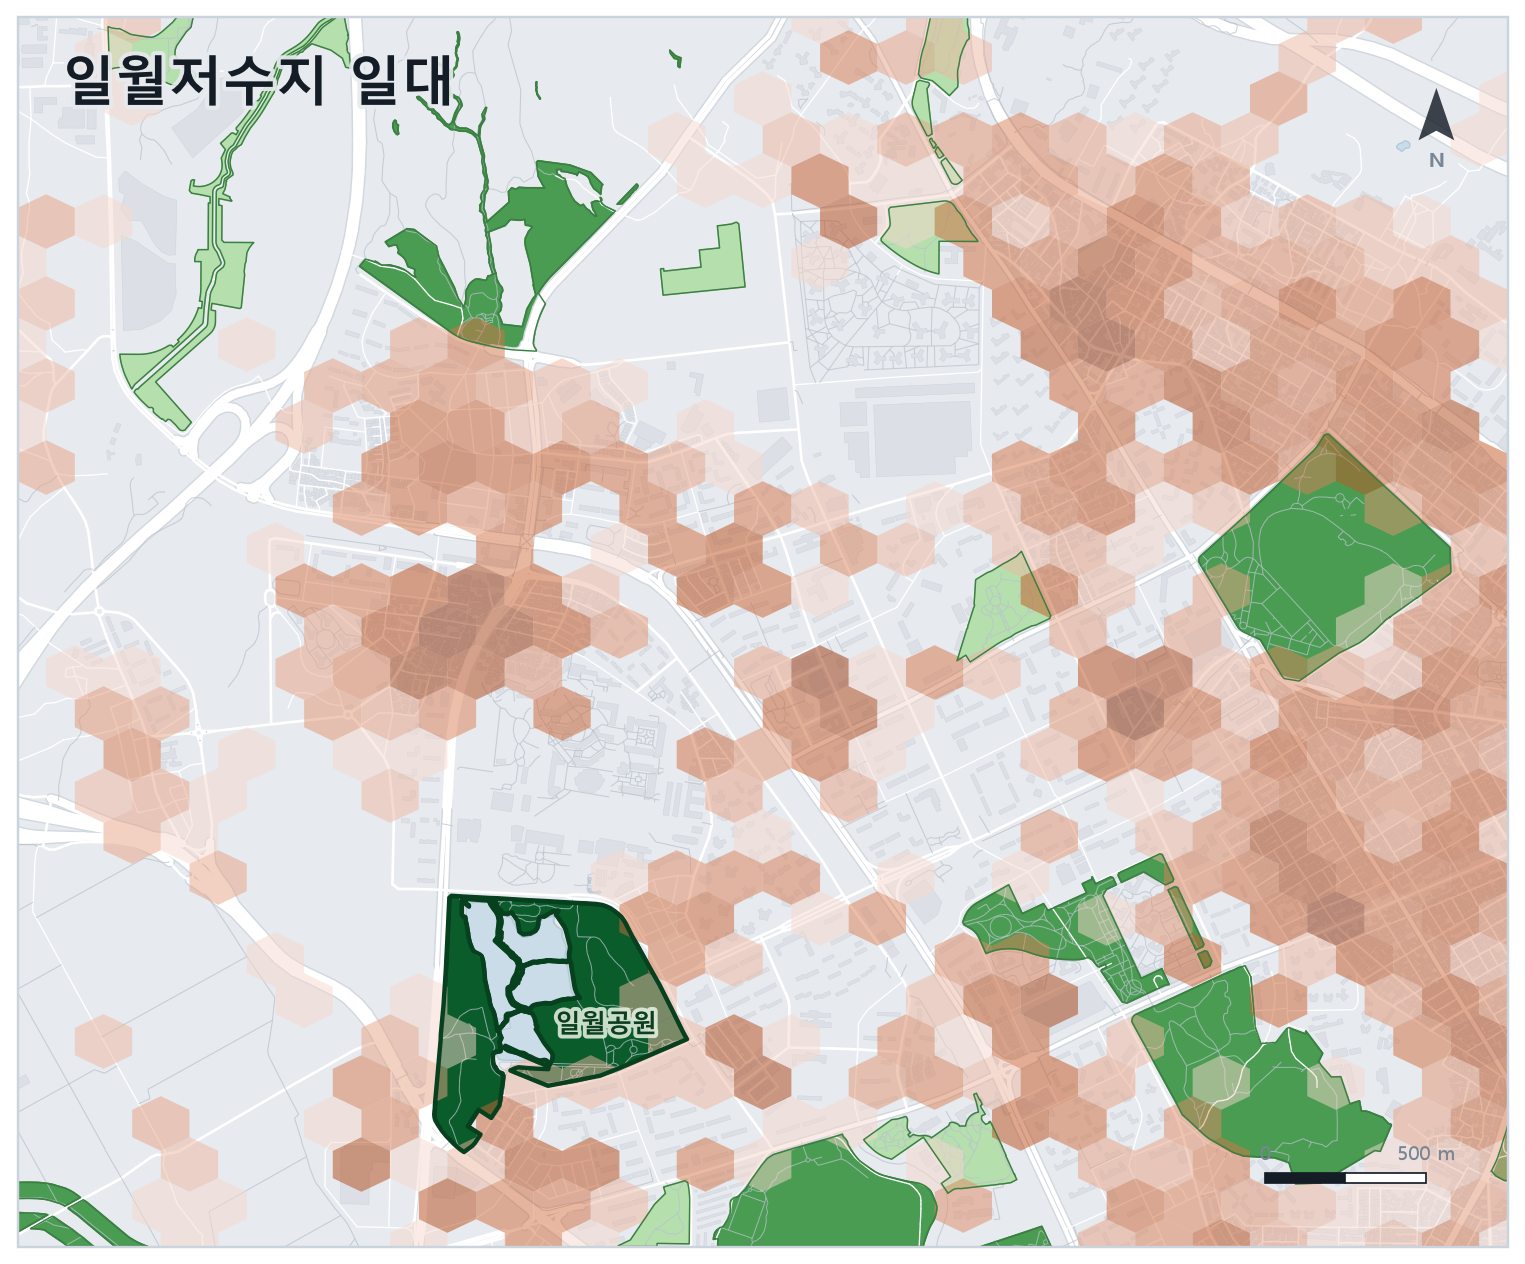
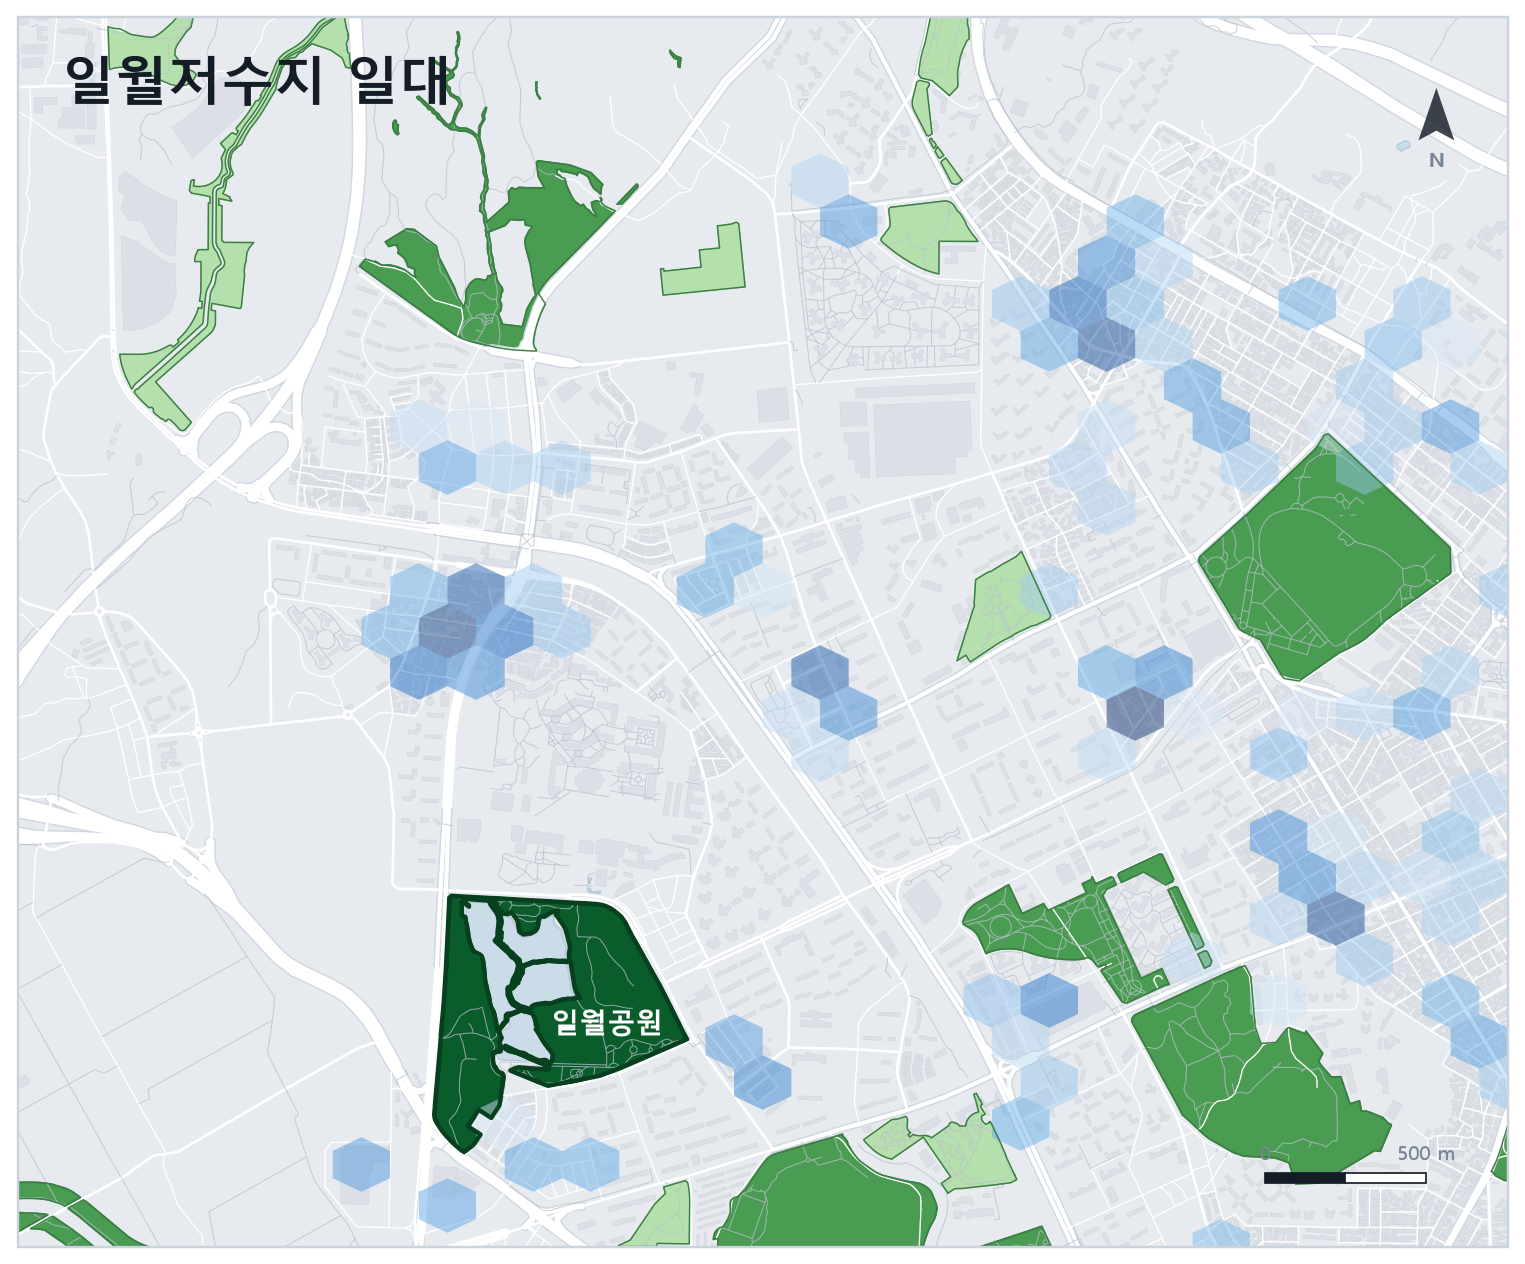
공원 자본화 보고서 지도 정리 — 두 종류로 줄이고 조판을 다듬었다
- 공원만 있는 도판을 없애고, 단지가 포함된 도판을 기본 지도로 삼아 상단에 둔다.
  같은 갤러리가 00절에 중복으로 있던 것도 제거했다.
- 분석 단지를 흰 테두리 작은 사각점으로 바꿨다.
- 지도 안 글자에서 후광·상자를 걷어내고 단색으로 두었다. 대표공원 이름은
  진한 초록 위 흰색, 구역 이름은 밝은 지면 위 먹색이라 대비만으로 읽힌다.
- 상권 육각형을 파란 계열로 바꾸고 로그 계급에 투명도 0.45를 주었다.
  칸의 문턱은 구역마다 '비어 있지 않은 칸의 78분위'로 잡는다. 고정 문턱을
  쓰면 상권이 넓게 깔린 광교에서 화면 대부분이 칠해져 강도 차이가 사라진다.

diff --git a/components/reports/park-capitalization.tsx b/components/reports/park-capitalization.tsx
@@ -1,7 +1,6 @@
 import { MapLightbox } from "@/components/reports/map-lightbox"
 import {
   parkCapCoreMaps,
-  parkCapParkMaps,
   parkCapHexMaps,
   parkCapConclusion,
   parkCapVerdict,
@@ -199,18 +198,19 @@ export function ParkCapitalizationReport() {
         ))}
       </dl>
 
-      {/* 지도 — 공원만 */}
+      {/* 지도 — 다섯 구역의 대표공원과 분석 단지 */}
       <div className="mt-10">
         <p className="font-mono text-[0.62rem] uppercase tracking-[0.12em] text-muted-foreground">
-          다섯 구역의 공원 배치
+          다섯 구역의 대표공원과 분석 단지
         </p>
         <p className="mt-2 max-w-3xl text-[0.9rem] leading-relaxed text-muted-foreground">
-          가장 진한 초록이 각 구역의 대표공원이고, 옅은 초록은 2ha 이상의 다른 공원이다. 단지를
-          걷어내고 공원만 두면 이 연구의 질문이 그대로 보인다 — 동탄2 남부는 대표공원이 시가지
-          한복판에 앉아 있고, 북부의 여울공원은 하천을 따라 가늘게 뻗어 동탄1과의 접경을 스친다.
-          광교는 공원이 지구를 통째로 갈라놓고, 일월은 촘촘한 기성시가지 속에 섬처럼 놓여 있다.
+          가장 진한 초록이 각 구역의 대표공원, 옅은 초록이 2ha 이상의 다른 공원, 작은 사각점이
+          분석 단지다. 동탄2 남부는 대표공원이 시가지 한복판에 앉아 단지들이 그 둘레에 퍼져 있다.
+          북부의 여울공원은 하천을 따라 가늘게 뻗어 동탄1과의 접경을 스친다. 광교는 공원이 지구를
+          통째로 갈라놓아 지구 안 단지는 어디든 가깝고, 일월은 촘촘한 기성시가지 속에 공원 하나가
+          섬처럼 놓여 있다.
         </p>
-        <MapLightbox maps={parkCapParkMaps} />
+        <MapLightbox maps={parkCapCoreMaps} />
       </div>
 
       {/* 00 한눈에 보기 */}
@@ -230,20 +230,6 @@ export function ParkCapitalizationReport() {
           </div>
         ))}
       </div>
-      {/* 지도 — 다섯 구역 */}
-      <div className="mt-8">
-        <p className="font-mono text-[0.62rem] uppercase tracking-[0.12em] text-muted-foreground">
-          다섯 구역의 대표공원
-        </p>
-        <p className="mt-2 max-w-3xl text-[0.9rem] leading-relaxed text-muted-foreground">
-          가장 진한 초록이 각 구역의 대표공원, 점이 분석 단지다. 동탄2 남부는 대표공원이 시가지
-          한복판에 앉아 단지들이 그 둘레에 퍼져 있다. 북부의 여울공원은 하천을 따라 가늘게 뻗어
-          지구 가장자리를 스친다. 광교는 공원이 지구를 통째로 갈라놓아 어느 단지든 가깝고, 일월은
-          촘촘한 기성시가지 속에 공원 하나가 섬처럼 놓여 있다.
-        </p>
-        <MapLightbox maps={parkCapCoreMaps} />
-      </div>
-
       <Table spec={parkCapHeadlineTable} />
 
       <div className="mt-5 rounded border border-border border-l-[3px] border-l-accent bg-muted/40 px-4 py-3.5 text-[0.88rem] leading-relaxed">
@@ -352,7 +338,7 @@ export function ParkCapitalizationReport() {
           공원과 생활상권의 겹침
         </p>
         <p className="mt-2 max-w-3xl text-[0.9rem] leading-relaxed text-muted-foreground">
-          같은 도판에 생활업종 점포 밀도를 육각형으로 얹었다. 진할수록 점포가 몰려 있다. 동탄2
+          같은 도판에 생활업종 점포 밀도를 육각형으로 얹었다. 파랑이 진할수록 점포가 몰려 있다. 한 칸에 점포가 열 곳 미만이면 비워 두었다 — 그 칸까지 칠하면 화면 절반이 상권이 되어 강도 차이가 읽히지 않는다. 동탄2
           남부·북부에서는 상권 덩어리가 대표공원에 붙어 있어 공원 거리가 상권 지수를 설명하는
           a경로가 뚜렷하고(부분 R² 0.232·0.150), 일월저수지 일대에서는 상권이 공원과 무관한 축을
           따라 깔려 있다(0.011). 그러나 이 겹침이 간접효과로 이어지지는 않는다.

diff --git a/content/reports/park-capitalization.ts b/content/reports/park-capitalization.ts
@@ -73,14 +73,6 @@ export const parkCapHeadlineTable: StatTable = {
   note: "계수는 대표공원 경계까지의 거리를 자연로그로 취한 값의 탄력성이다. 표준오차는 이분산-로버스트(HC1)다. 광교는 계수가 +0.014, p=0.585로 사실상 영(0)이다. 동탄1은 공원 거리와 지하철 거리의 상관이 0.97이어서 두 계수를 분리할 수 없다(VIF 29.46). *** p<0.01 · ** p<0.05 · * p<0.10.",
 }
 
-export const parkCapParkMaps = [
-  { key: "ds" as RegionKey, label: "동탄2 남부", sub: "동탄호수공원 44.5ha", src: "/images/reports/park-core/park-dongtan-south.png" },
-  { key: "dn" as RegionKey, label: "동탄2 북부", sub: "동탄여울공원 29.4ha", src: "/images/reports/park-core/park-dongtan-north.png" },
-  { key: "d1" as RegionKey, label: "동탄1", sub: "반석산근린공원 67.1ha", src: "/images/reports/park-core/park-dongtan1.png" },
-  { key: "gg" as RegionKey, label: "광교", sub: "광교호수공원 132.8ha", src: "/images/reports/park-core/park-gwanggyo.png" },
-  { key: "iw" as RegionKey, label: "일월저수지 일대", sub: "일월공원 28.1ha", src: "/images/reports/park-core/park-ilwol.png" },
-]
-
 export const parkCapHexMaps = [
   { key: "ds" as RegionKey, label: "동탄2 남부", sub: "동탄호수공원 44.5ha", src: "/images/reports/park-core/hex-dongtan-south.png" },
   { key: "dn" as RegionKey, label: "동탄2 북부", sub: "동탄여울공원 29.4ha", src: "/images/reports/park-core/hex-dongtan-north.png" },
